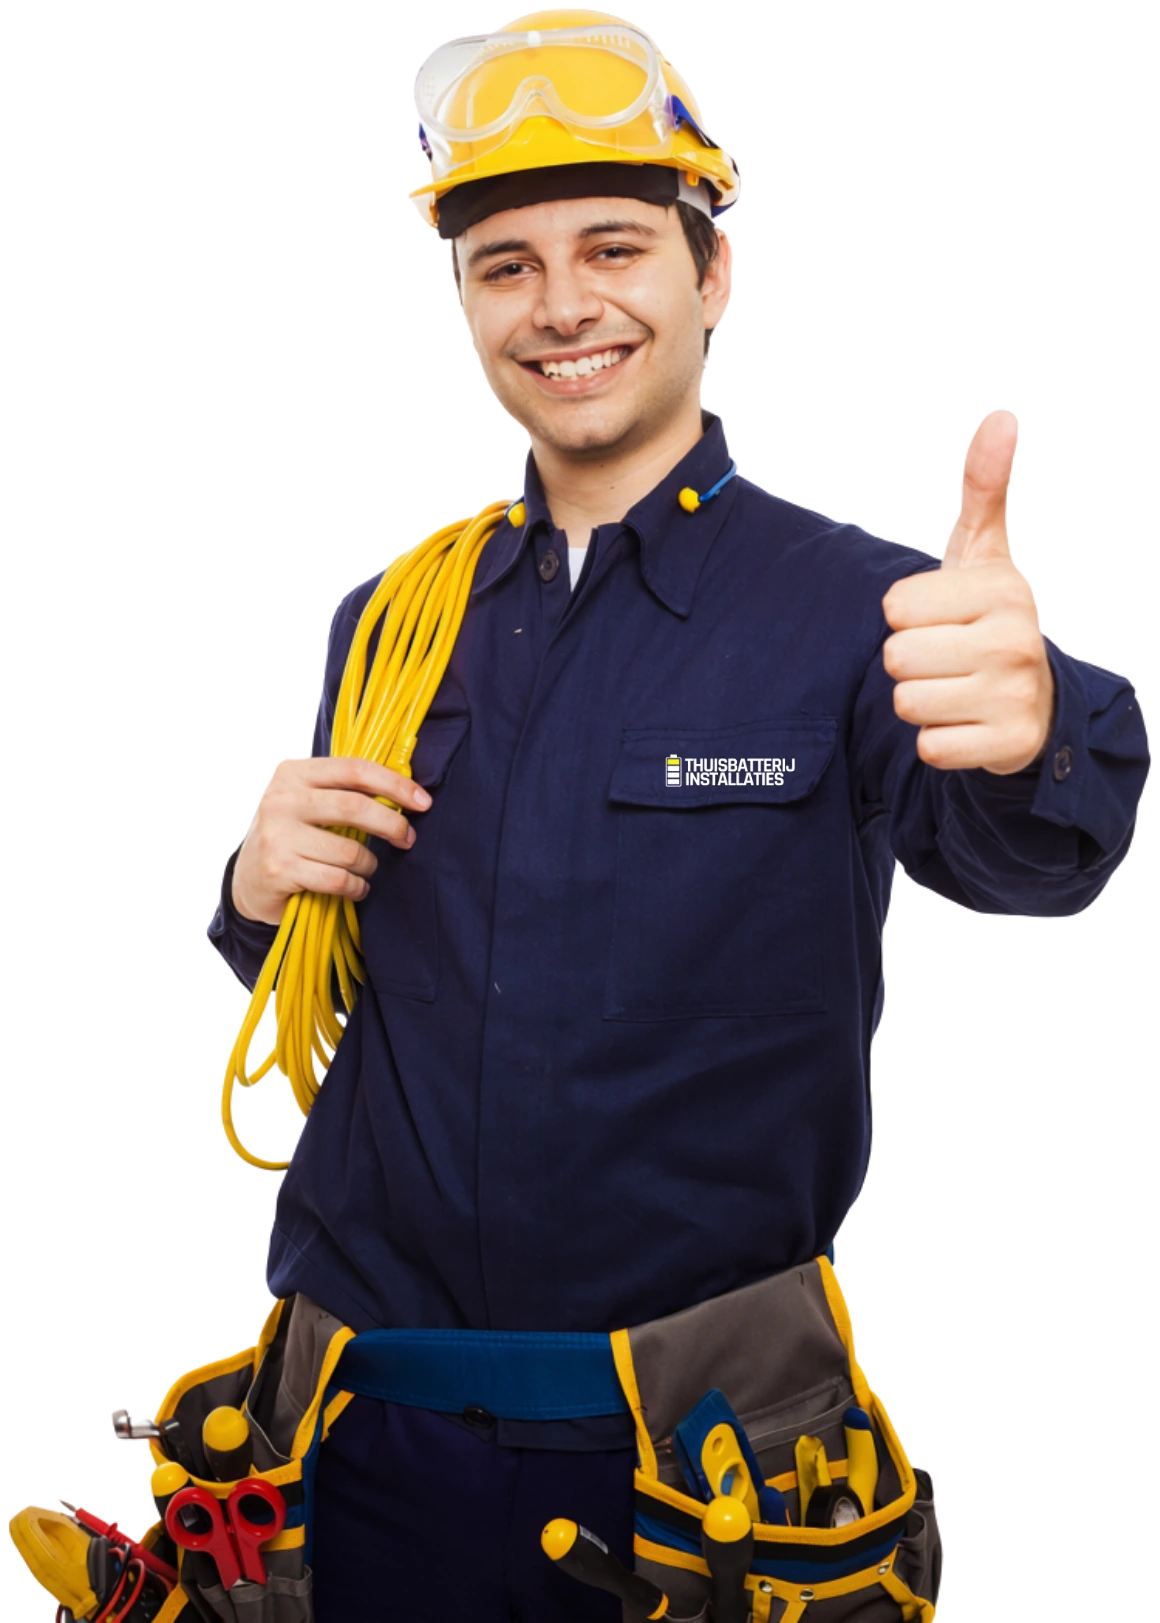
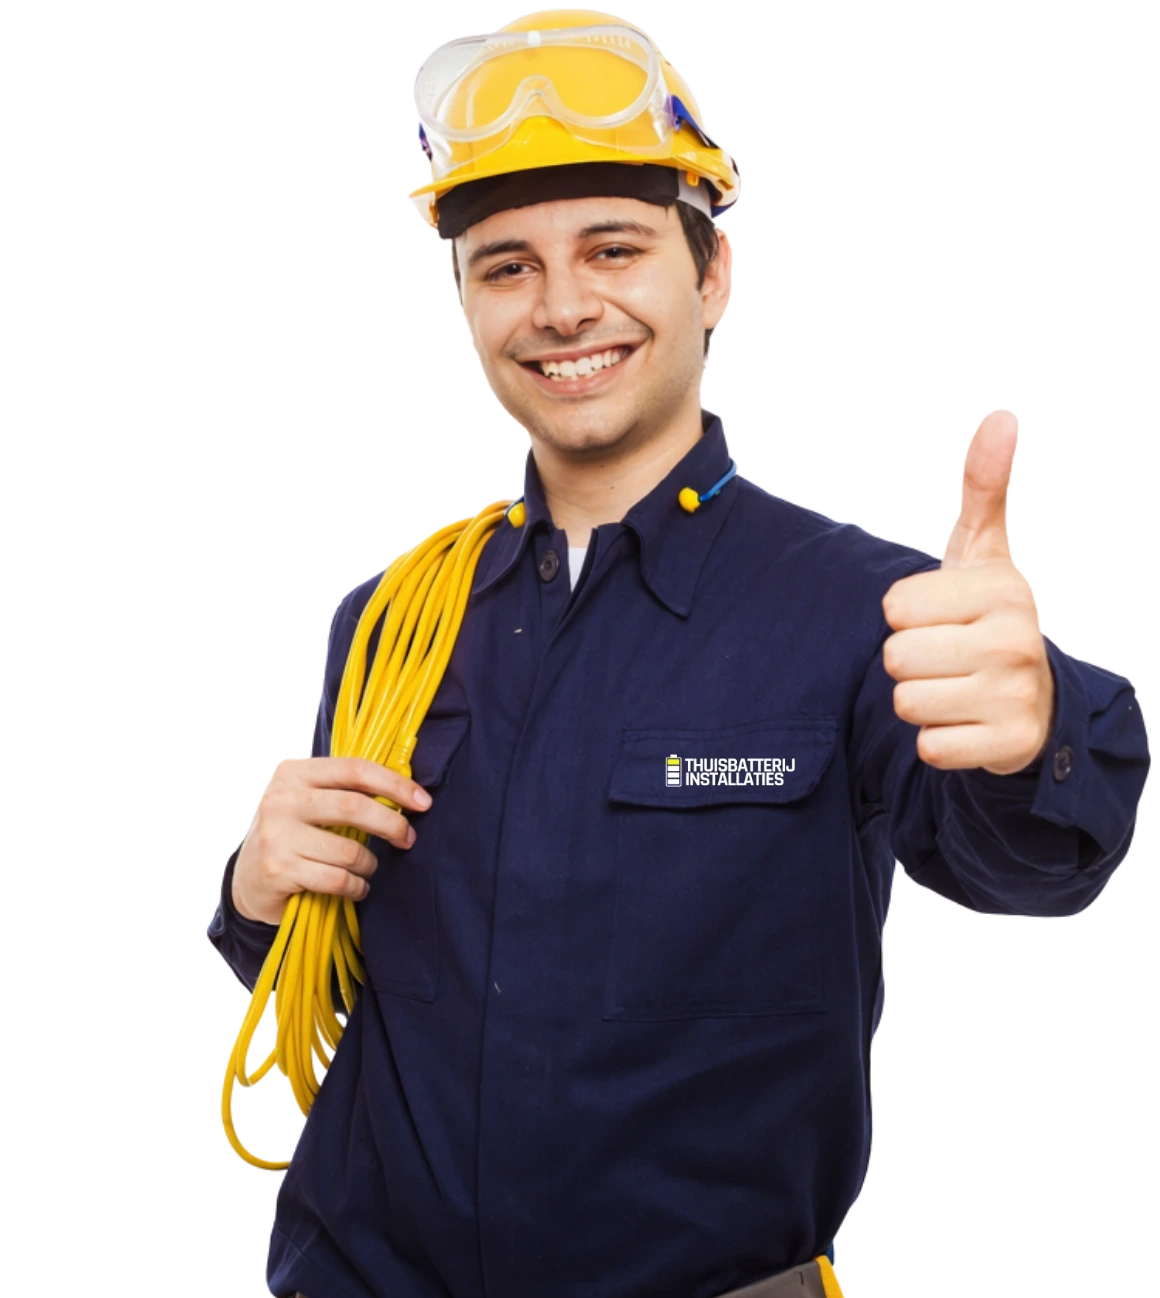
Paars blok korter, Warmtefonds naar de uitkomst van de rekensom
Het blok was 739 pixels hoog op een scherm dat er 729 beschikbaar had, dus er
paste per definitie niets onder. Drie oorzaken, alle drie aangepakt.

De monteur was de langste kolom en bepaalde in zijn eentje de hoogte. Nu
afgesneden op de gereedschapsgordel (1160x1298 in plaats van 1160x1623) en
getoond op 380 breed in plaats van 460. Gezicht, helm, duim en het logo op de
borst blijven staan.

Het raster stond op items-center, waardoor het hoogteverschil tussen tekst en
beeld gelijk werd verdeeld en er 75 pixels lucht boven de H1 kwam. Nu
items-start, met self-end op de figuur voor het geval een langere campagnekop
de tekstkolom ooit de langste maakt. Dit maakt het blok niet korter maar zet de
kop wel direct onder de kopbalk.

De voorbeeldregel boven de strip bestaat alleen in de preview en was twee
regels; op een regel gebracht, zodat de preview niet hoger is dan wat live
opgeleverd wordt. Anders beoordeel je een indeling die niemand te zien krijgt.

Resultaat: 612 in de preview en 574 live, tegen 729 en 795 beschikbaar. De
vertrouwensbalk en de kop van de calculator komen daarmee boven de vouw.

Het Nationaal Warmtefonds staat niet meer in de hero maar onder de uitkomst van
de rekensom, als eigen blok met logo. Het is een financier en geen keurmerk:
ze lenen aan de huiseigenaar en keuren de installateur niet, dus hun beeldmerk
bovenaan naast het eigen logo leest als partnerschap en dat is meer dan waar
[…]

diff --git a/components/Keurmerken.tsx b/components/Keurmerken.tsx
@@ -3,7 +3,6 @@ import { CLAIMS, isLive, mag, type ClaimId } from "@/lib/claims";
 
 import sgze from "@/public/beeld/keurmerk-sgze.webp";
 import installq from "@/public/beeld/keurmerk-installq.webp";
-import warmtefonds from "@/public/beeld/keurmerk-warmtefonds.webp";
 
 /**
  * De keurmerkenstrip, onderin het paarse heroblok.
@@ -20,12 +19,12 @@ import warmtefonds from "@/public/beeld/keurmerk-warmtefonds.webp";
  * eis, en beweging die je niet kunt stoppen is voor sommige mensen fysiek
  * vervelend.
  *
- * ⚠ ALLES HIERONDER IS VOORBEELD. Geen van deze drie merken is aangetoond,
- * en dus staat elk van de drie in het claimregister op "open". Gevolg: in de
- * preview zie je ze met een gele markering, en zodra NEXT_PUBLIC_LIVE=true is
- * rendert deze balk helemaal niet. Dat is precies de afspraak "dit moeten we
- * later allemaal aanpassen als we live gaan" — hier afgedwongen in code in
- * plaats van op een lijstje.
+ * ⚠ ALLES HIERONDER IS VOORBEELD. Geen van beide merken is aangetoond, en dus
+ * staan ze allebei in het claimregister op "open". Gevolg: in de preview zie je
+ * ze met een gele rand, en zodra NEXT_PUBLIC_LIVE=true is rendert deze strip
+ * helemaal niet. Dat is precies de afspraak "dit moeten we later allemaal
+ * aanpassen als we live gaan" — hier afgedwongen in code in plaats van op een
+ * lijstje.
  *
  * Waarom die hardheid: een keurmerklogo is een zwaardere mededeling dan de zin
  * eronder. Het oog leest een beeldmerk als een oordeel van een onafhankelijke
@@ -38,13 +37,13 @@ import warmtefonds from "@/public/beeld/keurmerk-warmtefonds.webp";
  * Elk merk heeft daarom twee bewijsstukken nodig, niet één: dat de aansluiting
  * bestaat én dat de houder Limsolar toestaat het beeldmerk te voeren.
  *
- * En één inhoudelijk punt dat geen juridische maar een merkkeuze is: het
- * Nationaal Warmtefonds is géén keurmerk. Het is een financier. Zijn logo in
- * een rij keurmerken zetten zegt tegen de bezoeker "wij zijn gekeurd door drie
- * partijen", terwijl het in werkelijkheid zegt "je kunt hiervoor lenen". In een
- * lopende rij is dat verschil helemaal niet meer te maken — een scheidingslijn
- * die voorbijschuift leest niemand als scheiding. Daarom zit het Warmtefonds
- * niet in de strip maar staat het eronder als zin. Zie ook regel V8.
+ * Het Nationaal Warmtefonds hoort hier niet en stond er ook niet in: dat is een
+ * financier en geen keurmerk. Zijn logo in een rij keurmerken zetten zegt tegen
+ * de bezoeker "wij zijn gekeurd door drie partijen", terwijl het in
+ * werkelijkheid zegt "je kunt hiervoor lenen" — en in een lopende rij is dat
+ * verschil helemaal niet meer te maken, want een scheidingslijn die
+ * voorbijschuift leest niemand als scheiding. Het staat nu onder de uitkomst
+ * van de rekensom, zie components/Financiering.tsx en regel V8.
  */
 
 type Merk = {
@@ -52,6 +51,8 @@ type Merk = {
   bron: StaticImageData;
   /** Wat het merk is. Komt in de alt-tekst én in het onderschrift. */
   naam: string;
+  /** Alleen voor de voorbeeldregel, die op één regel moet passen. */
+  kort: string;
   /** Wat het merk over Limsolar zégt. Bewust kort en letterlijk. */
   zegt: string;
 };
@@ -61,22 +62,15 @@ const KEURMERKEN: Merk[] = [
     claim: "V1",
     bron: sgze,
     naam: "Stichting Garantiefonds ZonneEnergie",
+    kort: "SGZE",
     zegt: "Aanbetaling en garantie gedekt",
   },
   {
     claim: "V7",
     bron: installq,
     naam: "InstallQ",
+    kort: "InstallQ",
     zegt: "Erkend installatiebedrijf",
-  },
-];
-
-const FINANCIERS: Merk[] = [
-  {
-    claim: "V8",
-    bron: warmtefonds,
-    naam: "Nationaal Warmtefonds",
-    zegt: "Financiering mogelijk",
   },
 ];
 
@@ -117,9 +111,8 @@ function Merkje({ merk }: { merk: Merk }) {
 
 export default function Keurmerken() {
   const keurmerken = KEURMERKEN.filter((m) => mag(m.claim));
-  const financiers = FINANCIERS.filter((m) => mag(m.claim));
   // Niets aangetoond, niets te tonen. Geen lege balk, geen restrand.
-  if (keurmerken.length + financiers.length === 0) return null;
+  if (keurmerken.length === 0) return null;
 
   // Welke er in de preview geel omrand staan. Alleen de merken uit de strip:
   // het Warmtefonds staat eronder als zin en heeft dus geen rand, en die er
@@ -136,15 +129,16 @@ export default function Keurmerken() {
   const rij = Array.from({ length: 6 }, () => keurmerken).flat();
 
   return (
-    <section aria-label="Aansluitingen en erkenningen" className="mt-s5">
+    <section aria-label="Aansluitingen en erkenningen" className="mt-s4">
+      {/* Bewust kort gehouden, op één regel. Deze regel bestaat alleen in de
+          preview, en elke regel die hij extra wordt maakt het paarse blok in
+          de preview hoger dan het live wordt — dan beoordeel je een indeling
+          die niemand ooit te zien krijgt. */}
       {!isLive && open.length > 0 && (
-        <p className="mb-s3 text-[0.8rem] text-n-200">
-          <span className="placeholder-label">Voorbeeld</span> Geel omrand ={" "}
-          nog niet aangetoond:{" "}
-          {open.map((m) => `${m.claim} ${m.naam}`).join(", ")}. Deze logo&apos;s
-          staan er alleen om de vormgeving te beoordelen; in live-modus verdwijnt
-          de strip van de pagina en komt pas terug als per merk zowel de
-          aansluiting als de toestemming voor het beeldmerk op papier staat.
+        <p className="mb-s2 text-[0.8rem] text-n-200">
+          <span className="placeholder-label">Voorbeeld</span> Geel omrand = nog
+          niet aangetoond ({open.map((m) => `${m.claim} ${m.kort}`).join(", ")});
+          live verdwijnt de strip tot het bewijs binnen is.
         </p>
       )}
 
@@ -162,19 +156,6 @@ export default function Keurmerken() {
             ))}
           </div>
         </div>
-      )}
-
-      {/* Geen verwijzing naar een pagina die er nog niet is: een link naar
-          "de voorwaarden" die nergens heen gaat is zelf al een misleidende
-          mededeling. Zodra V8 op bevestigd staat, hoort hier de vindplaats
-          van rente, looptijd en voorwaarden te staan. */}
-      {financiers.length > 0 && (
-        <p className="mt-s3 max-w-lees text-[0.8rem] text-n-200">
-          Financiering via het Nationaal Warmtefonds is mogelijk. Dat is een
-          financier en geen keurmerk, en daarom staat het niet tussen de merken
-          hierboven. Of het in jouw situatie kan, en tegen welke voorwaarden,
-          bespreken we in het adviesgesprek.
-        </p>
       )}
     </section>
   );

diff --git a/components/secties/Secties.tsx b/components/secties/Secties.tsx
@@ -13,8 +13,11 @@ import type { Variant } from "@/lib/varianten";
 // voorkomt dat de pagina verspringt terwijl het beeld laadt.
 import fotoBatterij from "@/public/beeld/thuisbatterij-buitenmuur-1600.webp";
 // Aangeleverd door de ontwerper: 1400×1900 met echte transparantie, zonder
-// tekst en zonder slagschaduw. Hier alleen bijgesneden op de figuur (er zat
-// 285 pixels leegte boven het hoofd) en opgeslagen als webp — 1160×1623, 147 kB.
+// tekst en zonder slagschaduw. Hier bijgesneden op de figuur (er zat 285 pixels
+// leegte boven het hoofd) en daarna afgesneden op de gereedschapsgordel, want
+// voluit bepaalde hij in zijn eentje de hoogte van het paarse vlak. Wat telt
+// blijft staan: gezicht, helm, duim en het logo op de borst. Resultaat
+// 1160×1298, 99 kB.
 //
 // Twee dingen bewust zo:
 // — Doorzichtig en niet met het paars ingevuld. Webp met verlies verschuift een
@@ -56,8 +59,19 @@ export function Hero({ variant }: { variant: Variant }) {
     // heeft zijn eigen ruimte al, en die twee bij elkaar duwden de kop en de
     // knop onnodig ver naar beneden. Onderin is de ruimte juist kleiner geworden
     // omdat de keurmerkenstrip die plek nu vult.
-    <section className="bg-paars px-s3 pb-s5 pt-s3 text-n-000">
-      <div className="mx-auto grid max-w-inhoud items-center gap-s4 lg:grid-cols-[1.05fr_0.95fr]">
+    <section className="bg-paars px-s3 pb-s4 pt-s3 text-n-000">
+      {/* items-start, niet items-center en ook niet items-end. De tekstkolom is
+          305 pixels hoog en de beeldkolom 454; met centreren wordt dat verschil
+          gelijk verdeeld en staat er 75 pixels lucht bóven de H1, met
+          items-end zelfs 149. Beide duwen de kop naar beneden zonder dat er
+          iets in die ruimte staat. Bovenaan uitlijnen zet de kop direct onder
+          de kopbalk; het verschil valt nu onder de knop, waar het als aanloop
+          naar de keurmerkenstrip leest.
+
+          Let op: dít maakt het blok niet korter — de hoogte wordt bepaald door
+          de langste kolom, en dat is het beeld. Korter wordt het alleen door
+          het beeld kleiner te tonen, zie hieronder. */}
+      <div className="mx-auto grid max-w-inhoud items-start gap-s4 lg:grid-cols-[1.05fr_0.95fr]">
         <div>
           <h1 className="max-w-[18ch]">{variant.hero.kop}</h1>
           <p className="mt-s4 max-w-lees text-[1.05rem] leading-relaxed text-n-200">
@@ -73,20 +87,28 @@ export function Hero({ variant }: { variant: Variant }) {
           </div>
         </div>
 
-        {/* Op mobiel staat het beeld onder de knop: de actie blijft boven de vouw. */}
-        <figure className="order-last">
+        {/* Op mobiel staat het beeld onder de knop: de actie blijft boven de vouw.
+            self-end zodat de monteur op de onderrand van de rij staat als de
+            tekstkolom ooit de langste wordt — bij een langere kop in een andere
+            campagnevariant gebeurt dat vanzelf. */}
+        <figure className="order-last self-end">
           {/* Geen afgeronde hoeken en geen kader: de achtergrond is doorzichtig,
               dus elke rand zou juist zichtbaar maken waar het beeld ophoudt.
-              Het bronbestand is nu 1160 pixels breed, dus 460 tonen kan zonder
-              dat hij zacht wordt — ook op een scherm met dubbele puntdichtheid
-              blijft er marge over. */}
+              380 en niet 460: het beeld is de langste kolom en bepaalt daarmee
+              in zijn eentje de hoogte van het paarse vlak. Elke pixel die het
+              hier korter wordt, is een pixel die de calculator omhoog schuift —
+              en dat is het hele doel. 460 gaf een blok van 739 pixels op een
+              scherm van 729, dus er paste niets meer onder; 380 brengt het op
+              612 in de preview en 574 live. Het bronbestand is 1160 breed, dus
+              op 380 blijft er ook op een scherm met dubbele puntdichtheid ruim
+              marge over. */}
           <Image
             src={fotoMonteurHero}
             alt="Een installateur met helm en gereedschapsgordel steekt zijn duim op"
             priority
             placeholder="blur"
-            sizes="(min-width: 1024px) 460px, 300px"
-            className="mx-auto h-auto w-full max-w-[300px] lg:max-w-[460px]"
+            sizes="(min-width: 1024px) 380px, 260px"
+            className="mx-auto h-auto w-full max-w-[260px] lg:max-w-[380px]"
           />
           <figcaption className="mt-s2 text-center text-[0.78rem] text-n-200">
             {SFEERBEELD}

diff --git a/components/Financiering.tsx b/components/Financiering.tsx
@@ -1,0 +1,81 @@
+import Image from "next/image";
+import { CLAIMS, isLive, mag, type ClaimRegel } from "@/lib/claims";
+
+import warmtefonds from "@/public/beeld/keurmerk-warmtefonds.webp";
+
+/**
+ * Het Nationaal Warmtefonds, onder de uitkomst van de rekensom.
+ *
+ * Stond eerst als zin onder de keurmerkenstrip in de hero. Twee redenen om het
+ * hierheen te halen.
+ *
+ * De inhoudelijke: het Warmtefonds neemt een géldbezwaar weg, en dat bezwaar
+ * bestaat nog niet als de bezoeker net binnen is. Het ontstaat op het moment dat
+ * er een bedrag en een terugverdientijd op het scherm staan. Daar hoort het
+ * antwoord, niet drie schermen eerder.
+ *
+ * De juridische: het Warmtefonds is een financier en geen keurmerk. Ze lenen aan
+ * de huiseigenaar, niet aan de installateur, en ze keuren de installateur ook
+ * niet. Hun beeldmerk bovenaan naast het eigen logo leest als "wij zijn een
+ * Warmtefondspartner", en dat is een sterkere mededeling dan wat waar is:
+ * financiering via het Warmtefonds is mogelijk. Hoe lager en hoe dichter bij de
+ * context van geld, hoe kleiner het verschil tussen wat er staat en wat er
+ * gelezen wordt.
+ *
+ * De grens in de tekst hieronder is bewust hard. Er staat wat er kan, niet wat
+ * het kost: geen rentepercentage, geen looptijd, geen maandbedrag. Die drie zijn
+ * kredietvoorwaarden, en die mag je niet noemen zonder de bijbehorende
+ * verplichte informatie erbij. Zodra V8 is afgetekend hoort hier de vindplaats
+ * van de voorwaarden te staan — een link naar een pagina die er nog niet is, is
+ * zelf al een misleidende mededeling.
+ *
+ * Rendert niet in live-modus zolang V8 op "open" staat: zowel dat financiering
+ * via het fonds in dit geval daadwerkelijk kan, als de toestemming om het
+ * beeldmerk te voeren, moet op papier staan.
+ */
+export default function Financiering() {
+  if (!mag("V8")) return null;
+
+  // Expliciet als ClaimRegel getypeerd, niet als CLAIMS.V8 rechtstreeks.
+  // TypeScript weet anders dat de status nú letterlijk "open" is en noemt de
+  // vergelijking hieronder zinloos — terecht op dit moment, maar de hele opzet
+  // is dat die status verandert zodra het bewijs binnen is. Met het bredere
+  // type blijft de code kloppen na die wijziging.
+  const regel: ClaimRegel = CLAIMS.V8;
+  const markeer = !isLive && regel.status !== "bevestigd";
+
+  return (
+    <aside
+      className={[
+        "mt-s4 flex items-start gap-s3 rounded-merk border border-n-200 bg-n-000 p-s3",
+        markeer ? "ring-2 ring-[#A08A00]" : "",
+      ].join(" ")}
+    >
+      <Image
+        src={warmtefonds}
+        // Geen "keurmerk" en geen "partner" in de alt-tekst: een schermlezer
+        // hoort dan een verband dat er niet is. Alleen de naam.
+        alt="Nationaal Warmtefonds"
+        sizes="160px"
+        className="h-[38px] w-auto shrink-0 sm:h-[46px]"
+      />
+      <div>
+        <p className="text-[0.9rem] leading-relaxed text-n-500">
+          Je hoeft dit niet in één keer te betalen: financiering via het
+          Nationaal Warmtefonds is mogelijk. Of het in jouw situatie kan, en
+          tegen welke voorwaarden, bespreken we in het adviesgesprek.
+        </p>
+        {markeer && (
+          <p className="mt-s1">
+            <span className="placeholder-label">
+              V8 · {regel.status}
+            </span>{" "}
+            <span className="text-[0.78rem] text-n-500">
+              Voorbeeld — verdwijnt in live-modus tot dit is aangetoond.
+            </span>
+          </p>
+        )}
+      </div>
+    </aside>
+  );
+}

diff --git a/components/calculator/Resultaat.tsx b/components/calculator/Resultaat.tsx
@@ -4,6 +4,7 @@ import { euro, getal, jaren, type Berekening } from "@/lib/calc";
 import { REKEN_DISCLAIMER } from "@/lib/site";
 import { Knop } from "@/components/ui/Knop";
 import { Claim } from "@/components/ui/Claim";
+import Financiering from "@/components/Financiering";
 import Terugleverkosten from "./Terugleverkosten";
 
 /**
@@ -76,6 +77,11 @@ export default function Resultaat({
       <p className="mt-s4 text-[0.85rem] leading-relaxed text-n-500">
         {REKEN_DISCLAIMER} <Claim id="R2" />
       </p>
+
+      {/* Hier en niet in de hero: het geldbezwaar ontstaat op het moment dat er
+          een bedrag op het scherm staat, en dat is precies nu. Vóór de knop,
+          zodat het weggenomen is voordat er om gegevens wordt gevraagd. */}
+      <Financiering />
 
       <div className="mt-s4 rounded-merk bg-n-100 p-s3">
         <h4 className="mb-s2 font-kop text-[1.05rem] font-semibold">Wat je hierboven níét ziet</h4>
